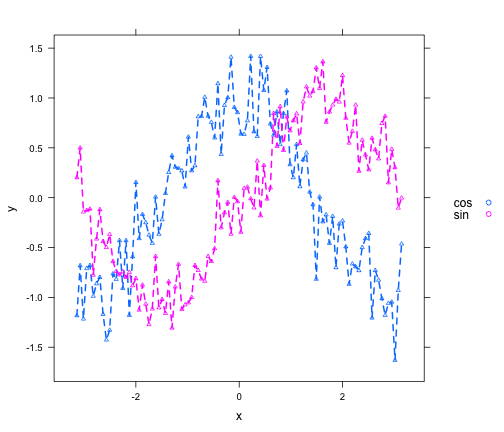
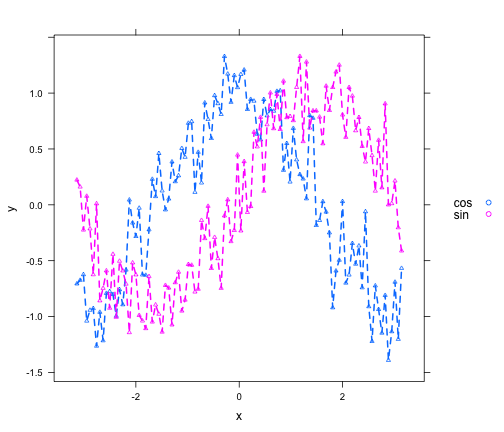
Update urls

diff --git a/index.html b/index.html
@@ -43,7 +43,7 @@
       </aside>
       <hgroup class="auto-fadein">
         <h1>Plotting in R</h1>
-        <h2>http://cogworks.cogsci.rpi.edu/plotting-in-r</h2>
+        <h2>http://ryanhope.github.com/plotting-in-r</h2>
         <p>Ryan Hope<br/>CogWorks Lab, Rensselaer Polytechnic Institute</p>
       </hgroup>
           </slide>
@@ -94,7 +94,7 @@
   <h2>Test Data</h2>
 </hgroup>
 <article class = 'flexbox vcenter'>
-<pre><code class="r">source(&quot;http://cogworks.cogsci.rpi.edu/plotting-in-r/data.R&quot;)
+<pre><code class="r">source(&quot;https://raw.github.com/RyanHope/plotting-in-r/gh-pages/data.R&quot;)
 </code></pre>
 
 </article>
@@ -112,7 +112,7 @@ str(d1)
 </code></pre>
 
 <pre><code>## &#39;data.frame&#39;:    200 obs. of  3 variables:
-##  $ y   : num  0.201 0.499 -0.143 -0.128 -0.114 ...
+##  $ y   : num  0.2224 0.1602 -0.2249 0.0778 -0.2146 ...
 ##  $ x   : num  -3.14 -3.08 -3.01 -2.95 -2.89 ...
 ##  $ type: Factor w/ 2 levels &quot;cos&quot;,&quot;sin&quot;: 2 2 2 2 2 2 2 2 2 2 ...
 </code></pre>
@@ -132,8 +132,8 @@ str(d2)
 
 <pre><code>## &#39;data.frame&#39;:    100 obs. of  3 variables:
 ##  $ x    : num  -3.14 -3.08 -3.01 -2.95 -2.89 ...
-##  $ y.sin: num  0.201 0.499 -0.143 -0.128 -0.114 ...
-##  $ y.cos: num  -1.184 -0.682 -1.217 -0.71 -0.68 ...
+##  $ y.sin: num  0.2224 0.1602 -0.2249 0.0778 -0.2146 ...
+##  $ y.cos: num  -0.707 -0.675 -0.624 -1.04 -0.943 ...
 </code></pre>
 
   </article>

diff --git a/index.md b/index.md
@@ -1,6 +1,6 @@
 ---
 title       : Plotting in R
-subtitle    : http://cogworks.cogsci.rpi.edu/plotting-in-r
+subtitle    : http://ryanhope.github.com/plotting-in-r
 author      : Ryan Hope
 job         : CogWorks Lab, Rensselaer Polytechnic Institute
 biglogo     : rpi_logo.png
@@ -41,7 +41,7 @@ mode        : selfcontained # {standalone, draft}
 
 
 ```r
-source("http://cogworks.cogsci.rpi.edu/plotting-in-r/data.R")
+source("https://raw.github.com/RyanHope/plotting-in-r/gh-pages/data.R")
 ```
 
 
@@ -59,7 +59,7 @@ str(d1)
 
 ```
 ## 'data.frame':	200 obs. of  3 variables:
-##  $ y   : num  0.201 0.499 -0.143 -0.128 -0.114 ...
+##  $ y   : num  0.2224 0.1602 -0.2249 0.0778 -0.2146 ...
 ##  $ x   : num  -3.14 -3.08 -3.01 -2.95 -2.89 ...
 ##  $ type: Factor w/ 2 levels "cos","sin": 2 2 2 2 2 2 2 2 2 2 ...
 ```
@@ -78,8 +78,8 @@ str(d2)
 ```
 ## 'data.frame':	100 obs. of  3 variables:
 ##  $ x    : num  -3.14 -3.08 -3.01 -2.95 -2.89 ...
-##  $ y.sin: num  0.201 0.499 -0.143 -0.128 -0.114 ...
-##  $ y.cos: num  -1.184 -0.682 -1.217 -0.71 -0.68 ...
+##  $ y.sin: num  0.2224 0.1602 -0.2249 0.0778 -0.2146 ...
+##  $ y.cos: num  -0.707 -0.675 -0.624 -1.04 -0.943 ...
 ```
 
 
